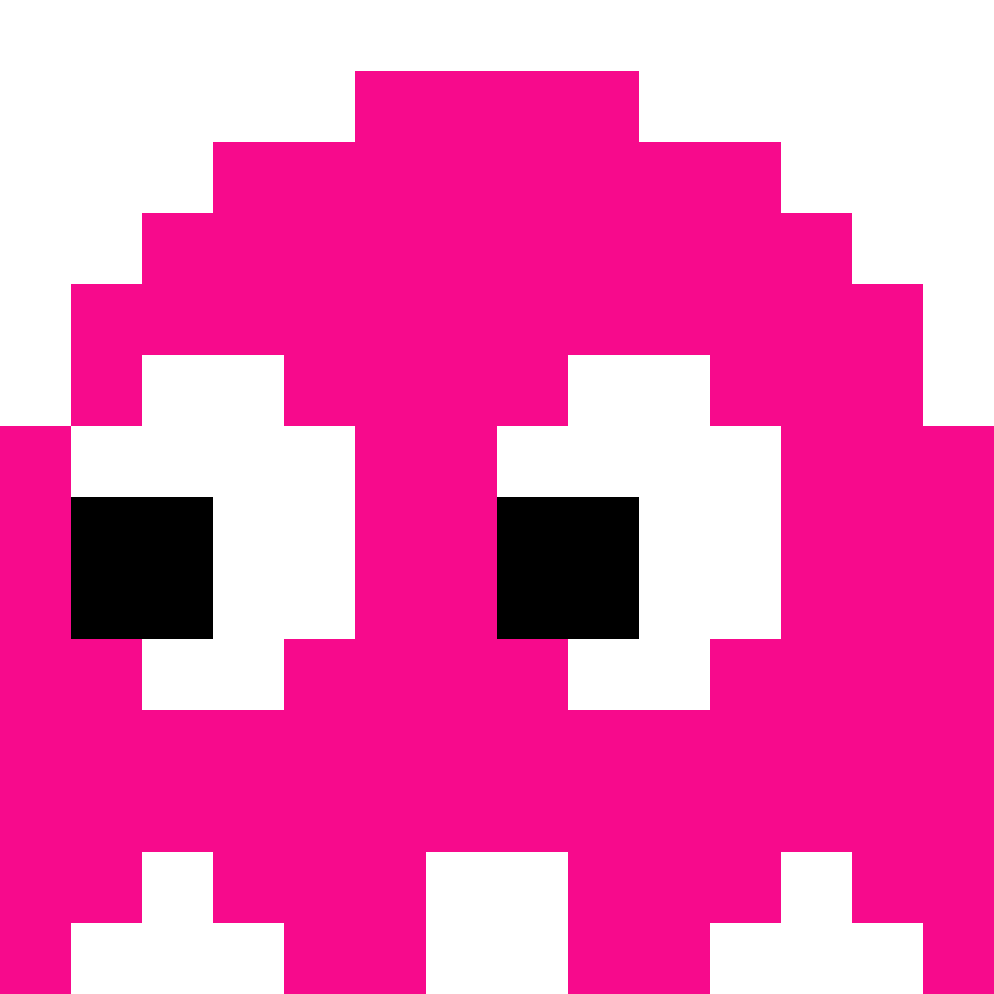
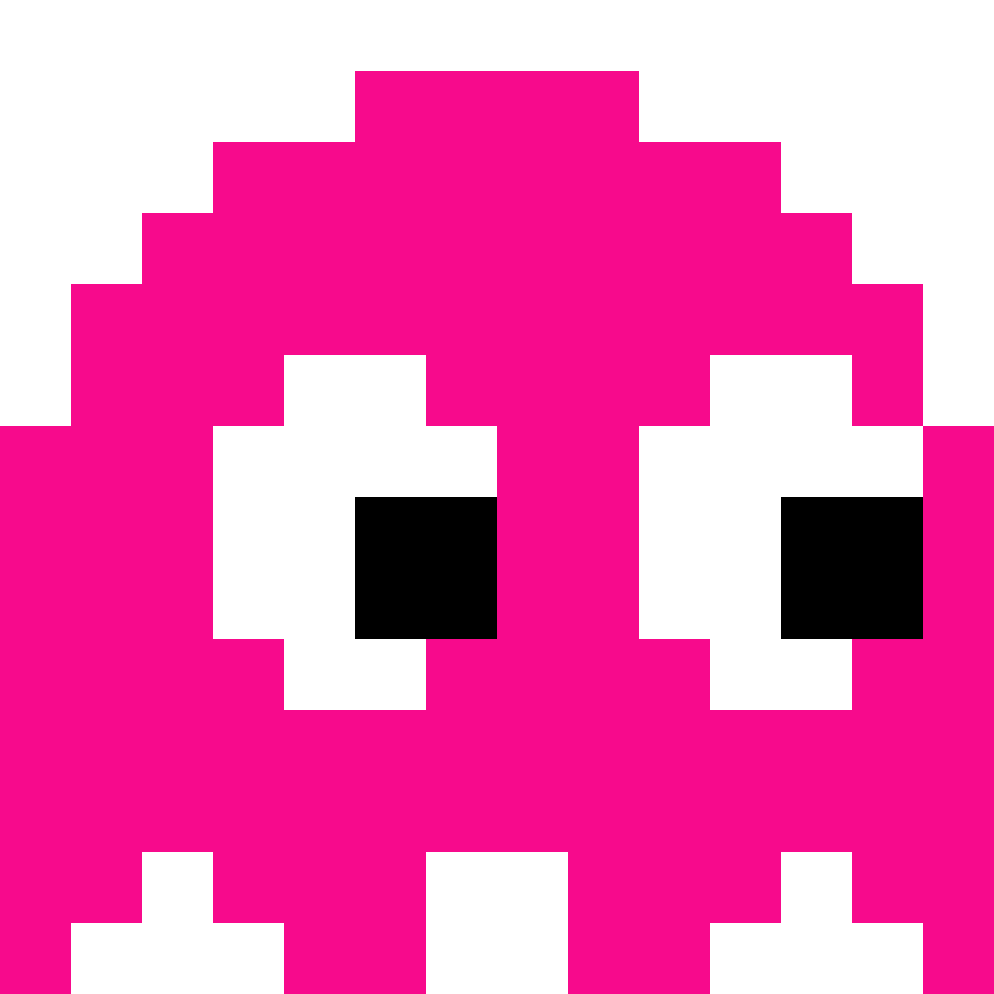
gif works but size is bad, morvement to the right side

Changed region(s): [[0.0624, 0.3431, 0.9356, 0.7173]]

diff --git a/Objects/GameObject.cs b/Objects/GameObject.cs
@@ -16,7 +16,7 @@ namespace Objects
         public event EventHandler<EventArgs> UpdateGameObject;
         public event EventHandler<EventArgs> Disposed;
         public event EventHandler<int> PlayerGotHit;
-        public bool Turn { get; set; }
+        //public bool Turn { get; set; }
         public Point PointOnScreen { get; set; }
         public bool IsVisable { get; set; } = true;
         public int Rotatation { get; set; } = 0;
@@ -37,10 +37,12 @@ namespace Objects
         public string Text { get; set; }
         public SizeDTO m_Size = GameSettings.m_MovementButtonOurSize;
         public int ID { get; set; }
-        public int Velocity { get; set; } = 105;
+        public int Velocity { get; set; } = 90;
         public bool Fade { get; set; } = false;
         protected int[,] m_Board;
         protected bool m_WantToTurn = false;
+        protected bool m_CanRotateToAllDirections = true;
+        protected bool m_FlipsWhenMoved = false;
 
         public void Initialize(eScreenObjectType i_ScreenObjectType, int i_ObjectNumber, string i_Png, Point i_Point, bool i_IsGrid, Point i_ValuesToAdd)
         {
@@ -55,42 +57,61 @@ namespace Objects
 
         public void SetImageDirection(Direction i_Direction)
         {
-            if (i_Direction == Direction.Up)
+            
+            if(m_CanRotateToAllDirections)
             {
-                Rotatation = 270;
+                if (i_Direction == Direction.Up)
+                {
+                    Rotatation = 270;
+                    ScaleX = 1;
+                }
+                else if (i_Direction == Direction.Down)
+                {
+                    Rotatation = 90;
+                    ScaleX = 1;
+                }
             }
-            else if (i_Direction == Direction.Down)
+
+            if (i_Direction == Direction.Left)
             {
-                Rotatation = 90;
+                if(m_FlipsWhenMoved)
+                {
+                    ScaleX = -1;
+                    Rotatation = 0;
+                }
+                else
+                {
+                    Rotatation = 180;
+                    ScaleX = 1;
+                }
             }
-            else if (i_Direction == Direction.Left)
+            else if (i_Direction == Direction.Right)
             {
-                Rotatation = 180;
-            }
-            else
-            {
+                ScaleX = 1;
                 Rotatation = 0;
             }
         }
 
-        public void FlipImage(int i_Index, eImageScale i_Scale)
+        public void FlipImage(Direction i_Direction)
         {
-            if (i_Scale == eImageScale.FlipX)
-            {
-                ScaleX = -1;
-            }
-            else if (i_Scale == eImageScale.FlipY)
-            {
-                ScaleY = -1;
-            }
-            if (i_Scale == eImageScale.OriginalX)
-            {
-                ScaleX = 1;
-            }
-            else
-            {
-                ScaleY= 1;
-            }
+            //if (i_Direction == Direction.Left)
+            //{
+            //    ScaleX = -1;
+            //}
+            //else if (i_Scale == eImageScale.FlipY)
+            //{
+            //    ScaleY = -1;
+            //    Rotatation = 0;
+            //}
+            //if (i_Scale == eImageScale.OriginalX)
+            //{
+            //    ScaleX = 1;
+            //}
+            //else
+            //{
+            //    ScaleY= 1;
+            //    Rotatation = 0;
+            //}
         }
 
         public void InitializeButton(eButton i_ButtonType, string i_Png, Point i_Point, bool i_IsGrided, SizeDTO i_Size, Point i_ValuesToAdd)
@@ -127,6 +148,7 @@ namespace Objects
                         Direction = i_Direction;
                     }
                 }
+                SetImageDirection(Direction);
             }
         }
 
@@ -192,7 +214,6 @@ namespace Objects
 
         protected void isPointOnBoard(ref Point i_Point)
         {
-            bool collided = true;
             if(i_Point.Column < m_ValuesToAdd.Column)
             {
                 i_Point.Column = m_ValuesToAdd.Column;
@@ -208,16 +229,6 @@ namespace Objects
             else if(i_Point.Column > m_GameInformation.GameBoardSizeByPixel.Width + m_ValuesToAdd.Column - m_Size.Height)
             {
                 i_Point.Column = m_GameInformation.GameBoardSizeByPixel.Width + m_ValuesToAdd.Column - m_Size.Height;
-            }
-            else
-            {
-                collided = false;
-            }
-
-            if(collided)
-            {
-                Turn = true;
-                Direction = RequestedDirection;
             }
         }
 
@@ -334,8 +345,7 @@ namespace Objects
                 m_Size.Width,m_Size.Height);
             }
         }
-    
-
+        
         public void MoveToPointInGrided(Point i_Point)
         {
             Point point = getScreenPoint(i_Point,true);

diff --git a/Objects/Image.cs b/Objects/Image.cs
@@ -14,7 +14,7 @@ namespace Objects
 
         public void SetImage(GameObject i_GameObject)
         {
-            m_Image.IsAnimationPlaying = true;
+            m_Image.IsAnimationPlaying = false;
             m_Image.TranslationX = i_GameObject.PointOnScreen.Column;
             m_Image.TranslationY = i_GameObject.PointOnScreen.Row;
             m_Image.Aspect = Aspect.AspectFill;
@@ -33,6 +33,13 @@ namespace Objects
                 }
             }
 
+            //if(i_GameObject.ScreenObjectType == eScreenObjectType.Player)
+            //{
+            //    m_Image.WidthRequest = 0;
+            //    m_Image.HeightRequest =0;
+            //    m_Image.Scale = 2;
+            //}
+
             //m_GameImages[screenObject.ID].TranslateTo(
             //    screenObject.PointOnScreen.Column,
             //    screenObject.PointOnScreen.Row, 100);
@@ -40,9 +47,14 @@ namespace Objects
 
         public void Update(GameObject i_GameObject)
         {
+
+            //m_Image.Scale-=1;//i_GameObject.m_Size.Width;
+            m_Image.IsAnimationPlaying = true;
             m_Image.TranslationX = i_GameObject.PointOnScreen.Column;
             m_Image.TranslationY = i_GameObject.PointOnScreen.Row;
             m_Image.IsVisible = i_GameObject.IsVisable;
+            m_Image.ScaleX = i_GameObject.ScaleX;
+            m_Image.ScaleY = i_GameObject.ScaleY;
             if (m_Image.ClassId != i_GameObject.ImageSource)
             {
                 m_Image.Source = m_Image.ClassId = i_GameObject.ImageSource;

diff --git a/UI/Pages/GamePage.xaml.cs b/UI/Pages/GamePage.xaml.cs
@@ -91,26 +91,13 @@ public partial class GamePage : ContentPage
         Application.Current.Dispatcher.Dispatch(async () =>
         {
             loopLabel.Text = m_Game.m_LoopNumber.ToString();
-            //foreach (GameObject screenObject in m_Game.m_PlayerObjects)
-            //{
-                if (getObjectTypeFromID(i_ObjectUpdates.ID) == eScreenObjectType.Image)
+            if (getObjectTypeFromID(i_ObjectUpdates.ID) == eScreenObjectType.Image)
+            {
+                if (m_GameImages.ContainsKey(i_ObjectUpdates.ID))
                 {
-                    if (m_GameImages.ContainsKey(i_ObjectUpdates.ID))
-                    {
-                        m_GameImages[i_ObjectUpdates.ID].Update(i_ObjectUpdates);
-                    }
+                    m_GameImages[i_ObjectUpdates.ID].Update(i_ObjectUpdates);
                 }
-            //}
-            //foreach (GameObject screenObject in m_Game.m_PlayerObjects)
-            //{ 
-            //    if (getObjectTypeFromID(screenObject.ID) == eScreenObjectType.Image)
-            //    {
-            //        if (m_GameImages.ContainsKey(screenObject.ID))
-            //        {
-            //            m_GameImages[screenObject.ID].Update(screenObject);
-            //        }
-            //    }
-            //}
+            }
         });
     }
     

diff --git a/LogicUnit/Logic/GamePageLogic/Games/Pacman/GhostObject.cs b/LogicUnit/Logic/GamePageLogic/Games/Pacman/GhostObject.cs
@@ -23,6 +23,8 @@ namespace LogicUnit.Logic.GamePageLogic.Games.Pacman
 
         public GhostObject(int i_playerNumber, int i_X, int i_Y, int[,] i_Board)
         {
+            m_CanRotateToAllDirections = false;
+            m_FlipsWhenMoved = true;
             IsCollisionDetectionEnabled = true;
             m_Board = i_Board;
             this.Initialize(eScreenObjectType.Player, i_playerNumber, "pacman_ghost_"+i_playerNumber+".png", getPointOnGrid(i_X,  i_Y), true,
@@ -112,7 +114,6 @@ namespace LogicUnit.Logic.GamePageLogic.Games.Pacman
             else if(i_Collidable is Boarder)
             {
                 collidedWithSolid(i_Collidable);
-                Direction = RequestedDirection;
             }
         }
         public void ResetPosition(double i_DeathStartTime)

diff --git a/LogicUnit/Logic/GamePageLogic/Games/Pacman/PacmanObject.cs b/LogicUnit/Logic/GamePageLogic/Games/Pacman/PacmanObject.cs
@@ -77,7 +77,6 @@ namespace LogicUnit.Logic.GamePageLogic.Games.Pacman
             else if (i_Collidable is Boarder)
             {
                 collidedWithSolid(i_Collidable);
-                Direction = RequestedDirection;
             }
             else if(i_Collidable is Cherry)
             {
